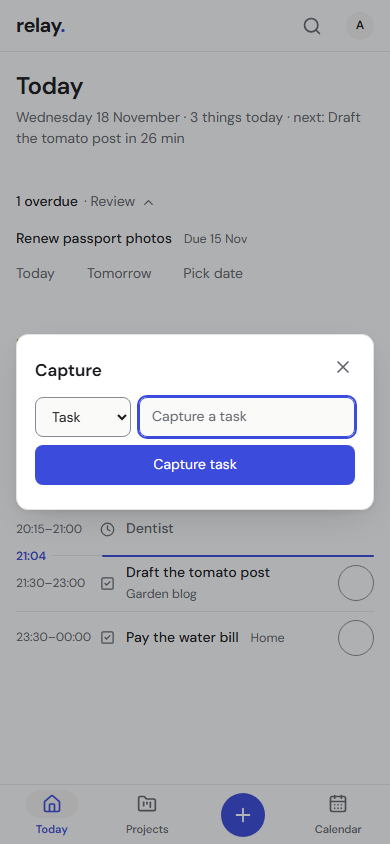
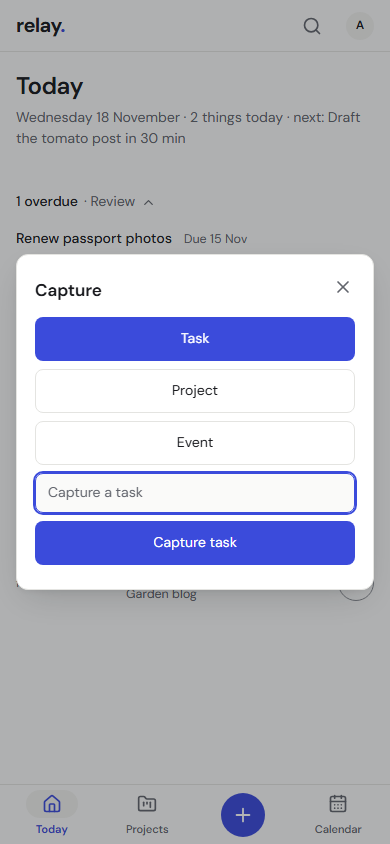
fix(capture): full-width type buttons, stacked on mobile

diff --git a/src/app/globals.css b/src/app/globals.css
@@ -270,13 +270,13 @@ progress::-moz-progress-bar { background: var(--primary); }
 .quick-capture-form { display: grid; grid-template-columns: minmax(0, 1fr) auto; gap: 8px; align-items: end; }
 .quick-capture-form .field { min-width: 0; }
 .quick-capture-form > p, .capture-kinds { grid-column: 1 / -1; }
-.capture-kinds { display: flex; gap: 8px; }
-.capture-kinds button { min-height: 44px; flex: 0 1 auto; }
+.capture-kinds { display: grid; grid-template-columns: repeat(3, minmax(0, 1fr)); gap: 8px; }
+.capture-kinds button { min-height: 44px; width: 100%; }
 .quick-capture-form button[type=submit] { min-height: 44px; }
 @container capture (max-width: 380px) {
   .quick-capture-form { grid-template-columns: minmax(0, 1fr); }
-  .capture-kinds button { flex: 1; }
 }
+@media (max-width: 760px) { .capture-kinds { grid-template-columns: minmax(0, 1fr); } }
 .complete-mark { width: 36px; min-height: 36px; display: grid; place-items: center; color: var(--primary-foreground); border-radius: 50%; background: var(--primary); }
 
 /* Today: one timeline of the day */

diff --git a/docs/Phase 1 Progress.md b/docs/Phase 1 Progress.md
@@ -120,6 +120,8 @@ Review findings and fixes:
 
 Checks: typecheck and lint clean; `npx vitest run` 15 files, 101 tests passed; edited specs on desktop (capture, shell) 13 passed, 1 skipped (mobile-only). `npm run build` passed. Full e2e in production mode (`RELAY_E2E_FULL=1 RELAY_TEST_SERVER=production npm run test:e2e`, desktop + mobile): 91 passed, 13 skipped, 0 failed. The real database (relay.db and -shm/-wal) was unchanged in size and modified time before and after. Screenshots refreshed: capture-task, capture-project, capture-event.
 
+Follow-up: Capture type buttons now span the dialog width as three equal columns, stacked full width (44px) at 760px and below; keys and semantics unchanged. Screenshots refreshed: capture-task/project/event, capture-390-light.
+
 ## How to test it
 
 - Start your own dev server as usual (`npm run dev`, http://127.0.0.1:3000) and sign in.
